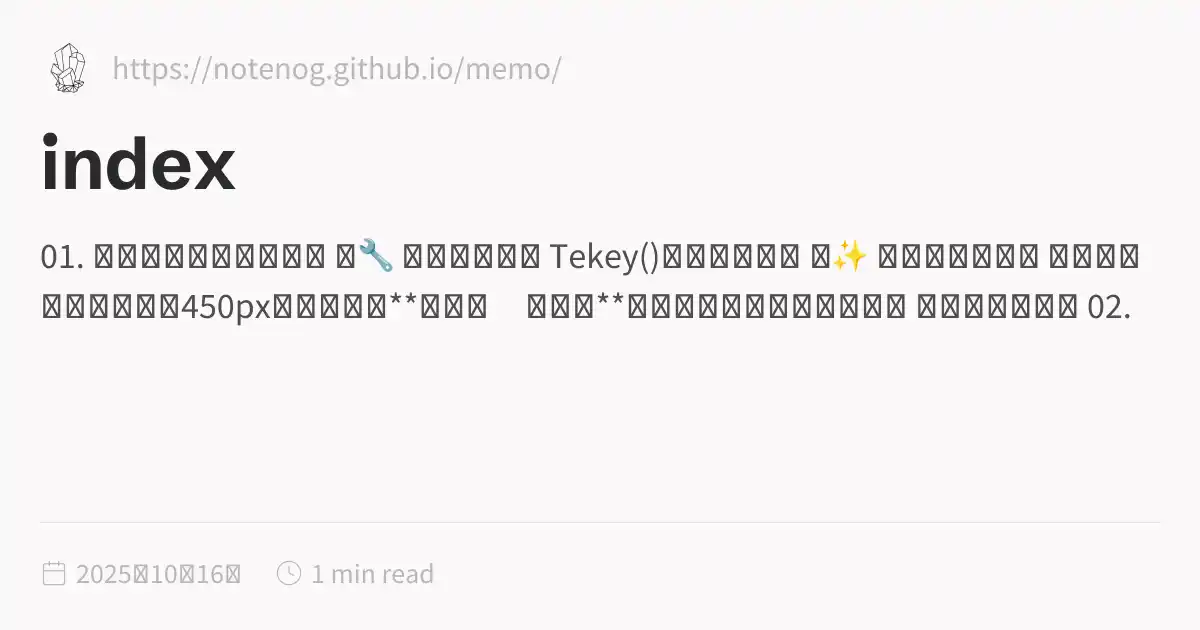
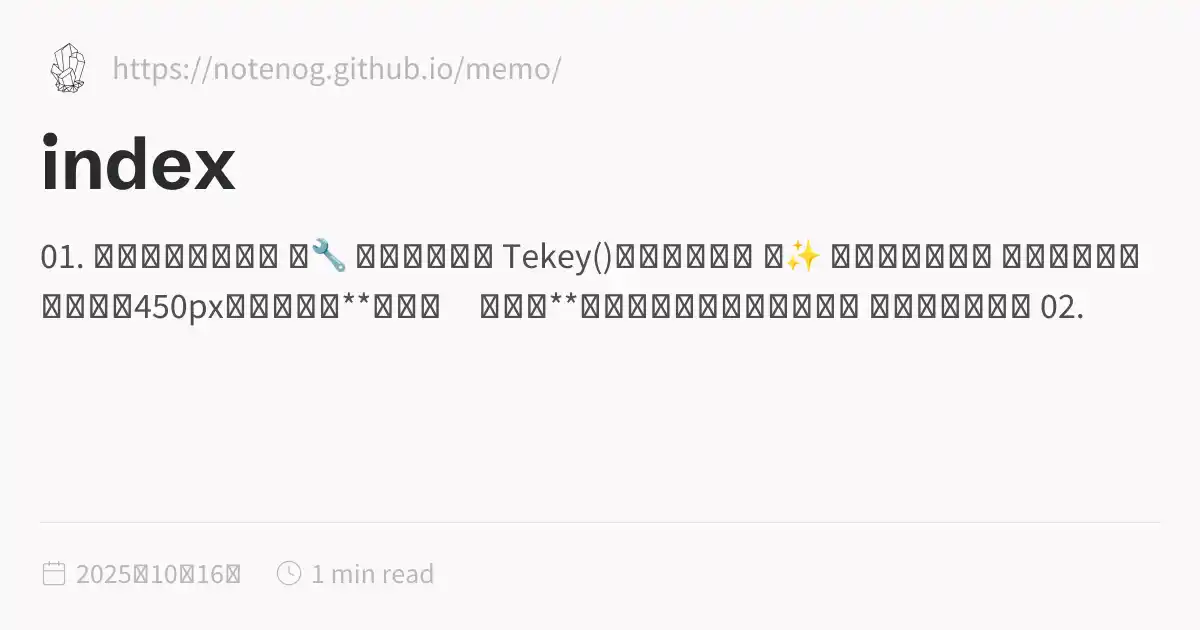
fix: Final push of clean assets with all content emitters disabled

diff --git a/docs/index.html b/docs/index.html
@@ -1,5 +1,5 @@
 <!DOCTYPE html>
-<html lang="ja" dir="ltr"><head><title>index</title><meta charset="utf-8"/><link rel="preconnect" href="https://fonts.googleapis.com"/><link rel="preconnect" href="https://fonts.gstatic.com"/><link rel="stylesheet" href="https://fonts.googleapis.com/css2?family=Schibsted Grotesk:wght@400;700&amp;family=Source Sans Pro:ital,wght@0,400;0,600;1,400;1,600&amp;family=IBM Plex Mono:wght@400;600&amp;display=swap"/><link rel="preconnect" href="https://cdnjs.cloudflare.com" crossorigin="anonymous"/><meta name="viewport" content="width=device-width, initial-scale=1.0"/><meta name="og:site_name" content="MEMO"/><meta property="og:title" content="index"/><meta property="og:type" content="website"/><meta name="twitter:card" content="summary_large_image"/><meta name="twitter:title" content="index"/><meta name="twitter:description" content="01. セッション前について 【🔧 使用ツール】 Tekey()を使用します 【✨ 立ち絵サイズ】 用意される場合は、縦450pxを基準に、**「股下～膝上」**程度にカットを推奨します 横幅は自由です 02."/><meta property="og:description" content="01. セッション前について 【🔧 使用ツール】 Tekey()を使用します 【✨ 立ち絵サイズ】 用意される場合は、縦450pxを基準に、**「股下～膝上」**程度にカットを推奨します 横幅は自由です 02."/><meta property="og:image:alt" content="01. セッション前について 【🔧 使用ツール】 Tekey()を使用します 【✨ 立ち絵サイズ】 用意される場合は、縦450pxを基準に、**「股下～膝上」**程度にカットを推奨します 横幅は自由です 02."/><meta property="twitter:domain" content="https://notenog.github.io/memo/"/><meta property="og:url" content="https://https//notenog.github.io/memo/index"/><meta property="twitter:url" content="https://https//notenog.github.io/memo/index"/><link rel="icon" href="./static/icon.png"/><meta name="description" content="01. セッション前について 【🔧 使用ツール】 Tekey()を使用します 【✨ 立ち絵サイズ】 用意される場合は、縦450pxを基準に、**「股下～膝上」**程度にカットを推奨します 横幅は自由です 02."/><meta name="generator" content="Quartz"/><link href="./index.css" rel="stylesheet" type="text/css" spa-preserve/><style>.expand-button {
+<html lang="ja" dir="ltr"><head><title>index</title><meta charset="utf-8"/><link rel="preconnect" href="https://fonts.googleapis.com"/><link rel="preconnect" href="https://fonts.gstatic.com"/><link rel="stylesheet" href="https://fonts.googleapis.com/css2?family=Schibsted Grotesk:wght@400;700&amp;family=Source Sans Pro:ital,wght@0,400;0,600;1,400;1,600&amp;family=IBM Plex Mono:wght@400;600&amp;display=swap"/><link rel="preconnect" href="https://cdnjs.cloudflare.com" crossorigin="anonymous"/><meta name="viewport" content="width=device-width, initial-scale=1.0"/><meta name="og:site_name" content="MEMO"/><meta property="og:title" content="index"/><meta property="og:type" content="website"/><meta name="twitter:card" content="summary_large_image"/><meta name="twitter:title" content="index"/><meta name="twitter:description" content="01. セッション前準備 【🔧 使用ツール】 Tekey()を使用します 【✨ 立ち絵サイズ】 用意される場合は、縦450pxを基準に、**「股下～膝上」**程度にカットを推奨します 横幅は自由です 02."/><meta property="og:description" content="01. セッション前準備 【🔧 使用ツール】 Tekey()を使用します 【✨ 立ち絵サイズ】 用意される場合は、縦450pxを基準に、**「股下～膝上」**程度にカットを推奨します 横幅は自由です 02."/><meta property="og:image:alt" content="01. セッション前準備 【🔧 使用ツール】 Tekey()を使用します 【✨ 立ち絵サイズ】 用意される場合は、縦450pxを基準に、**「股下～膝上」**程度にカットを推奨します 横幅は自由です 02."/><meta property="twitter:domain" content="https://notenog.github.io/memo/"/><meta property="og:url" content="https://https//notenog.github.io/memo/index"/><meta property="twitter:url" content="https://https//notenog.github.io/memo/index"/><link rel="icon" href="./static/icon.png"/><meta name="description" content="01. セッション前準備 【🔧 使用ツール】 Tekey()を使用します 【✨ 立ち絵サイズ】 用意される場合は、縦450pxを基準に、**「股下～膝上」**程度にカットを推奨します 横幅は自由です 02."/><meta name="generator" content="Quartz"/><link href="./index.css" rel="stylesheet" type="text/css" spa-preserve/><style>.expand-button {
   position: absolute;
   display: flex;
   float: right;
@@ -116,29 +116,24 @@ pre:hover > .expand-button {
   padding: 0 12px;
   font-size: 14px;
 }
[2 lines of base64/hex data omitted]
 <h2 id="-使用ツール">【🔧 使用ツール】<a role="anchor" aria-hidden="true" tabindex="-1" data-no-popover="true" href="#-使用ツール" class="internal"><svg width="18" height="18" viewBox="0 0 24 24" fill="none" stroke="currentColor" stroke-width="2" stroke-linecap="round" stroke-linejoin="round"><path d="M10 13a5 5 0 0 0 7.54.54l3-3a5 5 0 0 0-7.07-7.07l-1.72 1.71"></path><path d="M14 11a5 5 0 0 0-7.54-.54l-3 3a5 5 0 0 0 7.07 7.07l1.71-1.71"></path></svg></a></h2>
 <ul>
-<li>
-<p>Tekey()を使用します</p>
-</li>
+<li>Tekey()を使用します</li>
 </ul>
+<p><br/> <br/> <br/></p>
 <h2 id="-立ち絵サイズ">【✨ 立ち絵サイズ】<a role="anchor" aria-hidden="true" tabindex="-1" data-no-popover="true" href="#-立ち絵サイズ" class="internal"><svg width="18" height="18" viewBox="0 0 24 24" fill="none" stroke="currentColor" stroke-width="2" stroke-linecap="round" stroke-linejoin="round"><path d="M10 13a5 5 0 0 0 7.54.54l3-3a5 5 0 0 0-7.07-7.07l-1.72 1.71"></path><path d="M14 11a5 5 0 0 0-7.54-.54l-3 3a5 5 0 0 0 7.07 7.07l1.71-1.71"></path></svg></a></h2>
 <ul>
-<li>
-<p>用意される場合は、<strong>縦450px</strong>を基準に、**「股下～膝上」**程度にカットを推奨します</p>
-</li>
-<li>
-<p>横幅は自由です</p>
-</li>
+<li>用意される場合は、<strong>縦450px</strong>を基準に、**「股下～膝上」**程度にカットを推奨します</li>
+<li>横幅は自由です</li>
 </ul>
-<h1 id="02-セッション当日について">02. セッション当日について<a role="anchor" aria-hidden="true" tabindex="-1" data-no-popover="true" href="#02-セッション当日について" class="internal"><svg width="18" height="18" viewBox="0 0 24 24" fill="none" stroke="currentColor" stroke-width="2" stroke-linecap="round" stroke-linejoin="round"><path d="M10 13a5 5 0 0 0 7.54.54l3-3a5 5 0 0 0-7.07-7.07l-1.72 1.71"></path><path d="M14 11a5 5 0 0 0-7.54-.54l-3 3a5 5 0 0 0 7.07 7.07l1.71-1.71"></path></svg></a></h1>
+<p><br/> <br/> <br/> <br/></p>
+<h1 id="02-セッション当日準備">02. セッション当日準備<a role="anchor" aria-hidden="true" tabindex="-1" data-no-popover="true" href="#02-セッション当日準備" class="internal"><svg width="18" height="18" viewBox="0 0 24 24" fill="none" stroke="currentColor" stroke-width="2" stroke-linecap="round" stroke-linejoin="round"><path d="M10 13a5 5 0 0 0 7.54.54l3-3a5 5 0 0 0-7.07-7.07l-1.72 1.71"></path><path d="M14 11a5 5 0 0 0-7.54-.54l-3 3a5 5 0 0 0 7.07 7.07l1.71-1.71"></path></svg></a></h1>
 <h2 id="-立ち絵位置">【💁♀ 立ち絵位置】<a role="anchor" aria-hidden="true" tabindex="-1" data-no-popover="true" href="#-立ち絵位置" class="internal"><svg width="18" height="18" viewBox="0 0 24 24" fill="none" stroke="currentColor" stroke-width="2" stroke-linecap="round" stroke-linejoin="round"><path d="M10 13a5 5 0 0 0 7.54.54l3-3a5 5 0 0 0-7.07-7.07l-1.72 1.71"></path><path d="M14 11a5 5 0 0 0-7.54-.54l-3 3a5 5 0 0 0 7.07 7.07l1.71-1.71"></path></svg></a></h2>
 <ul>
-<li>
-<p>特に指定がなければ</p>
-</li>
+<li>特に指定がなければ</li>
 </ul>
+<p><br/> <br/> <br/></p>
 <h2 id="-文字色">【🎨 文字色】<a role="anchor" aria-hidden="true" tabindex="-1" data-no-popover="true" href="#-文字色" class="internal"><svg width="18" height="18" viewBox="0 0 24 24" fill="none" stroke="currentColor" stroke-width="2" stroke-linecap="round" stroke-linejoin="round"><path d="M10 13a5 5 0 0 0 7.54.54l3-3a5 5 0 0 0-7.07-7.07l-1.72 1.71"></path><path d="M14 11a5 5 0 0 0-7.54-.54l-3 3a5 5 0 0 0 7.07 7.07l1.71-1.71"></path></svg></a></h2>
 <ul>
 <li>通常、GMは赤・灰・黒系を使用します</li>
@@ -150,6 +145,6 @@ pre:hover > .expand-button {
 <li><strong>ネタバレの配慮</strong>をして頂ければX(Twitter)等にあげて貰って大丈夫です</li>
 <li>厳密には「NPC」「マップ」「エネミー」等は映さないように重々注意して下さい</li>
 </ul>
-<p><br/> <br/> <br/></p></article><hr/><div class="page-footer"></div></div><div class="right sidebar"><div class="search"><button class="search-button"><svg role="img" xmlns="http://www.w3.org/2000/svg" viewBox="0 0 19.9 19.7"><title>Search</title><g class="search-path" fill="none"><path stroke-linecap="square" d="M18.5 18.3l-5.4-5.4"></path><circle cx="8" cy="8" r="7"></circle></g></svg><p>Search</p></button><div class="search-container"><div class="search-space"><input autocomplete="off" class="search-bar" name="search" type="text" aria-label="検索ワードを入力" placeholder="検索ワードを入力"/><div class="search-layout" data-preview="true"></div></div></div></div><div class="toc desktop-only"><button type="button" class="toc-header" aria-controls="toc-0" aria-expanded="true"><h3>📄 Contents</h3><svg xmlns="http://www.w3.org/2000/svg" width="24" height="24" viewBox="0 0 24 24" fill="none" stroke="currentColor" stroke-width="2" stroke-linecap="round" stroke-linejoin="round" class="fold"><polyline points="6 9 12 15 18 9"></polyline></svg></button><ul id="list-1" class="toc-content overflow"><li class="depth-0"><a href="#01-セッション前について" data-for="01-セッション前について">01. セッション前について</a></li><li class="depth-1"><a href="#-使用ツール" data-for="-使用ツール">【🔧 使用ツール】</a></li><li class="depth-1"><a href="#-立ち絵サイズ" data-for="-立ち絵サイズ">【✨ 立ち絵サイズ】</a></li><li class="depth-0"><a href="#02-セッション当日について" data-for="02-セッション当日について">02. セッション当日について</a></li><li class="depth-1"><a href="#-立ち絵位置" data-for="-立ち絵位置">【💁♀ 立ち絵位置】</a></li><li class="depth-1"><a href="#-文字色" data-for="-文字色">【🎨 文字色】</a></li><li class="depth-1"><a href="#-スクリーンショットの公開" data-for="-スクリーンショットの公開">【📸 スクリーンショットの公開】</a></li><li class="overflow-end"></li></ul></div></div><footer class><p>Created with <a href="https://quartz.jzhao.xyz/">Quartz v4.5.2</a> © 2025</p><ul><li><a href="https://github.com/jackyzha0/quartz">GitHub</a></li></ul></footer></div></div></body><script type="application/javascript">function n(){let t=this.parentElement;t.classList.toggle("is-collapsed");let e=t.getElementsByClassName("callout-content")[0];if(!e)return;let l=t.classList.contains("is-collapsed");e.style.gridTemplateRows=l?"0fr":"1fr"}function c(){let t=document.getElementsByClassName("callout is-collapsible");for(let e of t){let l=e.getElementsByClassName("callout-title")[0],s=e.getElementsByClassName("callout-content")[0];if(!l||!s)continue;l.addEventListener("click",n),window.addCleanup(()=>l.removeEventListener("click",n));let o=e.classList.contains("is-collapsed");s.style.gridTemplateRows=o?"0fr":"1fr"}}document.addEventListener("nav",c);
+<p><br/> <br/> <br/></p></article><hr/><div class="page-footer"></div></div><div class="right sidebar"><div class="search"><button class="search-button"><svg role="img" xmlns="http://www.w3.org/2000/svg" viewBox="0 0 19.9 19.7"><title>Search</title><g class="search-path" fill="none"><path stroke-linecap="square" d="M18.5 18.3l-5.4-5.4"></path><circle cx="8" cy="8" r="7"></circle></g></svg><p>Search</p></button><div class="search-container"><div class="search-space"><input autocomplete="off" class="search-bar" name="search" type="text" aria-label="検索ワードを入力" placeholder="検索ワードを入力"/><div class="search-layout" data-preview="true"></div></div></div></div><div class="toc desktop-only"><button type="button" class="toc-header" aria-controls="toc-0" aria-expanded="true"><h3>📄 Contents</h3><svg xmlns="http://www.w3.org/2000/svg" width="24" height="24" viewBox="0 0 24 24" fill="none" stroke="currentColor" stroke-width="2" stroke-linecap="round" stroke-linejoin="round" class="fold"><polyline points="6 9 12 15 18 9"></polyline></svg></button><ul id="list-1" class="toc-content overflow"><li class="depth-0"><a href="#01-セッション前準備" data-for="01-セッション前準備">01. セッション前準備</a></li><li class="depth-1"><a href="#-使用ツール" data-for="-使用ツール">【🔧 使用ツール】</a></li><li class="depth-1"><a href="#-立ち絵サイズ" data-for="-立ち絵サイズ">【✨ 立ち絵サイズ】</a></li><li class="depth-0"><a href="#02-セッション当日準備" data-for="02-セッション当日準備">02. セッション当日準備</a></li><li class="depth-1"><a href="#-立ち絵位置" data-for="-立ち絵位置">【💁♀ 立ち絵位置】</a></li><li class="depth-1"><a href="#-文字色" data-for="-文字色">【🎨 文字色】</a></li><li class="depth-1"><a href="#-スクリーンショットの公開" data-for="-スクリーンショットの公開">【📸 スクリーンショットの公開】</a></li><li class="overflow-end"></li></ul></div></div><footer class><p>Created with <a href="https://quartz.jzhao.xyz/">Quartz v4.5.2</a> © 2025</p><ul><li><a href="https://github.com/jackyzha0/quartz">GitHub</a></li></ul></footer></div></div></body><script type="application/javascript">function n(){let t=this.parentElement;t.classList.toggle("is-collapsed");let e=t.getElementsByClassName("callout-content")[0];if(!e)return;let l=t.classList.contains("is-collapsed");e.style.gridTemplateRows=l?"0fr":"1fr"}function c(){let t=document.getElementsByClassName("callout is-collapsible");for(let e of t){let l=e.getElementsByClassName("callout-title")[0],s=e.getElementsByClassName("callout-content")[0];if(!l||!s)continue;l.addEventListener("click",n),window.addCleanup(()=>l.removeEventListener("click",n));let o=e.classList.contains("is-collapsed");s.style.gridTemplateRows=o?"0fr":"1fr"}}document.addEventListener("nav",c);
 </script><script type="module">function f(i,e){if(!i)return;function r(o){o.target===this&&(o.preventDefault(),o.stopPropagation(),e())}function t(o){o.key.startsWith("Esc")&&(o.preventDefault(),e())}i?.addEventListener("click",r),window.addCleanup(()=>i?.removeEventListener("click",r)),document.addEventListener("keydown",t),window.addCleanup(()=>document.removeEventListener("keydown",t))}function y(i){for(;i.firstChild;)i.removeChild(i.firstChild)}var h=class{constructor(e,r){this.container=e;this.content=r;this.setupEventListeners(),this.setupNavigationControls(),this.resetTransform()}isDragging=!1;startPan={x:0,y:0};currentPan={x:0,y:0};scale=1;MIN_SCALE=.5;MAX_SCALE=3;cleanups=[];setupEventListeners(){let e=this.onMouseDown.bind(this),r=this.onMouseMove.bind(this),t=this.onMouseUp.bind(this),o=this.resetTransform.bind(this);this.container.addEventListener("mousedown",e),document.addEventListener("mousemove",r),document.addEventListener("mouseup",t),window.addEventListener("resize",o),this.cleanups.push(()=>this.container.removeEventListener("mousedown",e),()=>document.removeEventListener("mousemove",r),()=>document.removeEventListener("mouseup",t),()=>window.removeEventListener("resize",o))}cleanup(){for(let e of this.cleanups)e()}setupNavigationControls(){let e=document.createElement("div");e.className="mermaid-controls";let r=this.createButton("+",()=>this.zoom(.1)),t=this.createButton("-",()=>this.zoom(-.1)),o=this.createButton("Reset",()=>this.resetTransform());e.appendChild(t),e.appendChild(o),e.appendChild(r),this.container.appendChild(e)}createButton(e,r){let t=document.createElement("button");return t.textContent=e,t.className="mermaid-control-button",t.addEventListener("click",r),window.addCleanup(()=>t.removeEventListener("click",r)),t}onMouseDown(e){e.button===0&&(this.isDragging=!0,this.startPan={x:e.clientX-this.currentPan.x,y:e.clientY-this.currentPan.y},this.container.style.cursor="grabbing")}onMouseMove(e){this.isDragging&&(e.preventDefault(),this.currentPan={x:e.clientX-this.startPan.x,y:e.clientY-this.startPan.y},this.updateTransform())}onMouseUp(){this.isDragging=!1,this.container.style.cursor="grab"}zoom(e){let r=Math.min(Math.max(this.scale+e,this.MIN_SCALE),this.MAX_SCALE),t=this.content.getBoundingClientRect(),o=t.width/2,n=t.height/2,c=r-this.scale;this.currentPan.x-=o*c,this.currentPan.y-=n*c,this.scale=r,this.updateTransform()}updateTransform(){this.content.style.transform=`translate(${this.currentPan.x}px, ${this.currentPan.y}px) scale(${this.scale})`}resetTransform(){this.scale=1;let e=this.content.querySelector("svg");this.currentPan={x:e.getBoundingClientRect().width/2,y:e.getBoundingClientRect().height/2},this.updateTransform()}},C=["--secondary","--tertiary","--gray","--light","--lightgray","--highlight","--dark","--darkgray","--codeFont"],E;document.addEventListener("nav",async()=>{let e=document.querySelector(".center").querySelectorAll("code.mermaid");if(e.length===0)return;E||=await import("https://cdnjs.cloudflare.com/ajax/libs/mermaid/11.4.0/mermaid.esm.min.mjs");let r=E.default,t=new WeakMap;for(let n of e)t.set(n,n.innerText);async function o(){for(let s of e){s.removeAttribute("data-processed");let a=t.get(s);a&&(s.innerHTML=a)}let n=C.reduce((s,a)=>(s[a]=window.getComputedStyle(document.documentElement).getPropertyValue(a),s),{}),c=document.documentElement.getAttribute("saved-theme")==="dark";r.initialize({startOnLoad:!1,securityLevel:"loose",theme:c?"dark":"base",themeVariables:{fontFamily:n["--codeFont"],primaryColor:n["--light"],primaryTextColor:n["--darkgray"],primaryBorderColor:n["--tertiary"],lineColor:n["--darkgray"],secondaryColor:n["--secondary"],tertiaryColor:n["--tertiary"],clusterBkg:n["--light"],edgeLabelBackground:n["--highlight"]}}),await r.run({nodes:e})}await o(),document.addEventListener("themechange",o),window.addCleanup(()=>document.removeEventListener("themechange",o));for(let n=0;n<e.length;n++){let v=function(){let g=l.querySelector("#mermaid-space"),m=l.querySelector(".mermaid-content");if(!m)return;y(m);let w=c.querySelector("svg").cloneNode(!0);m.appendChild(w),l.classList.add("active"),g.style.cursor="grab",u=new h(g,m)},M=function(){l.classList.remove("active"),u?.cleanup(),u=null},c=e[n],s=c.parentElement,a=s.querySelector(".clipboard-button"),d=s.querySelector(".expand-button"),p=window.getComputedStyle(a),L=a.offsetWidth+parseFloat(p.marginLeft||"0")+parseFloat(p.marginRight||"0");d.style.right=`calc(${L}px + 0.3rem)`,s.prepend(d);let l=s.querySelector("#mermaid-container");if(!l)return;let u=null;d.addEventListener("click",v),f(l,M),window.addCleanup(()=>{u?.cleanup(),d.removeEventListener("click",v)})}});
 </script><script src="https://cdn.jsdelivr.net/npm/katex@0.16.11/dist/contrib/copy-tex.min.js" type="application/javascript"></script><script src="./postscript.js" type="module"></script></html>

diff --git a/content/index.md b/content/index.md
@@ -2,42 +2,33 @@
 title: "index"
 draft: false
 ---
-# 01. セッション前について
+# 01. セッション前準備
 ## 【🔧 使用ツール】
 * Tekey()を使用します  
 
-
-
-
-  
+<br> <br> <br>
+    
 ## 【✨ 立ち絵サイズ】
 * 用意される場合は、**縦450px**を基準に、**「股下～膝上」**程度にカットを推奨します
 * 横幅は自由です  
 
-
-
-
+<br> <br> <br> <br>
   
-# 02. セッション当日について
+# 02. セッション当日準備
 ## 【💁♀ 立ち絵位置】
-* 特に指定がなければ  
+* 特に指定がなければ
 
-
-
-
+<br> <br> <br>
   
 ## 【🎨 文字色】
 
 * 通常、GMは赤・灰・黒系を使用します
 * それ以外の色でお願い致します  
 
-
 <br> <br> <br>
-
   
 ## 【📸 スクリーンショットの公開】
 * **ネタバレの配慮**をして頂ければX(Twitter)等にあげて貰って大丈夫です
 * 厳密には「NPC」「マップ」「エネミー」等は映さないように重々注意して下さい  
-
 
 <br> <br> <br> 
